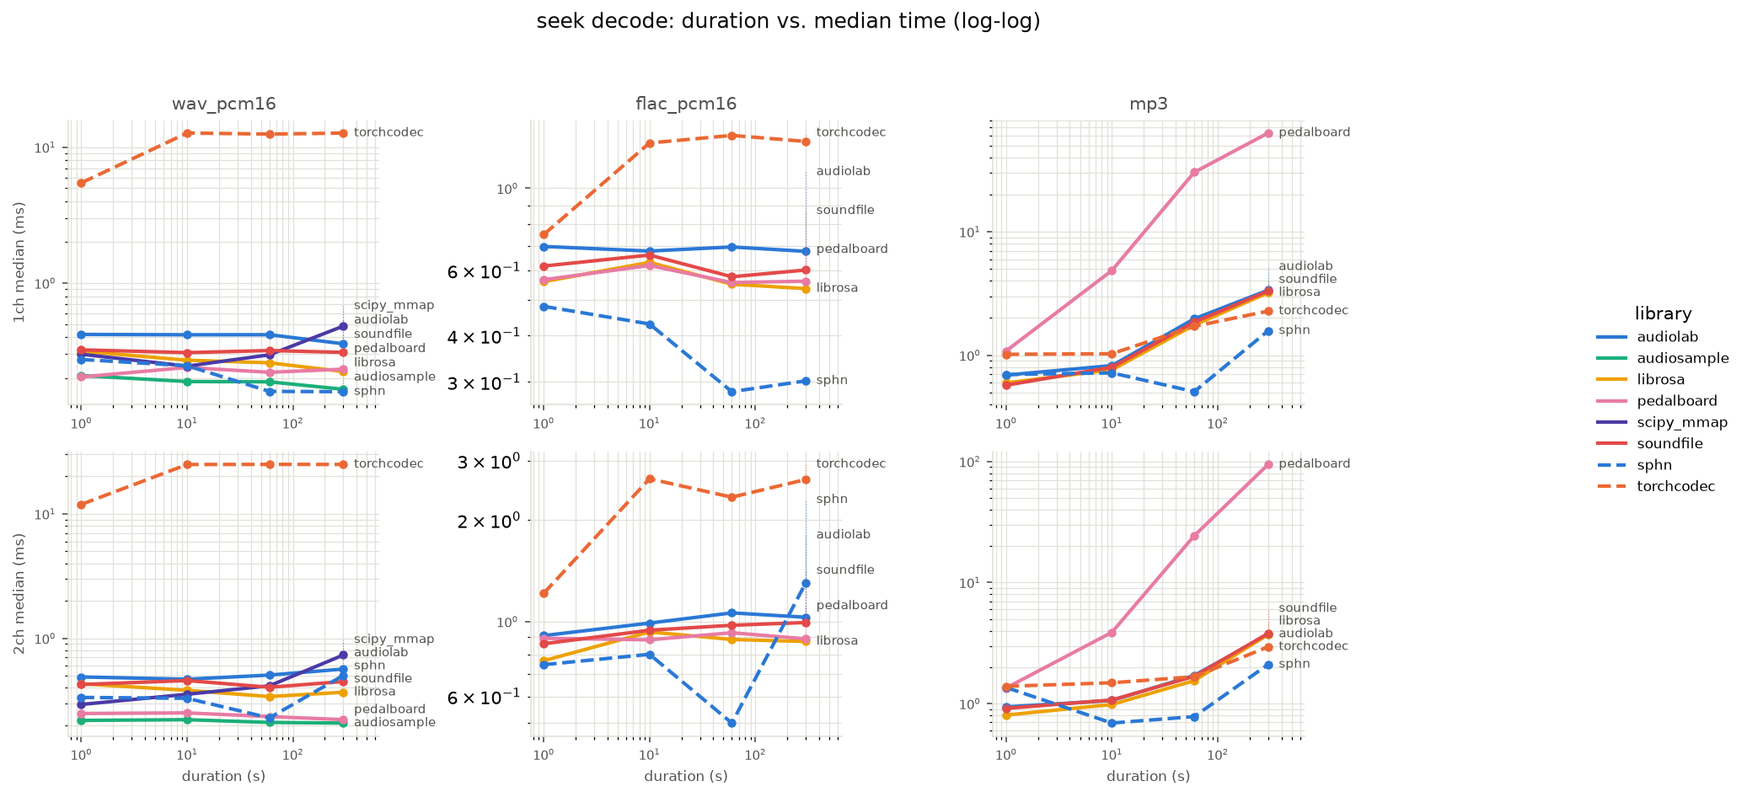
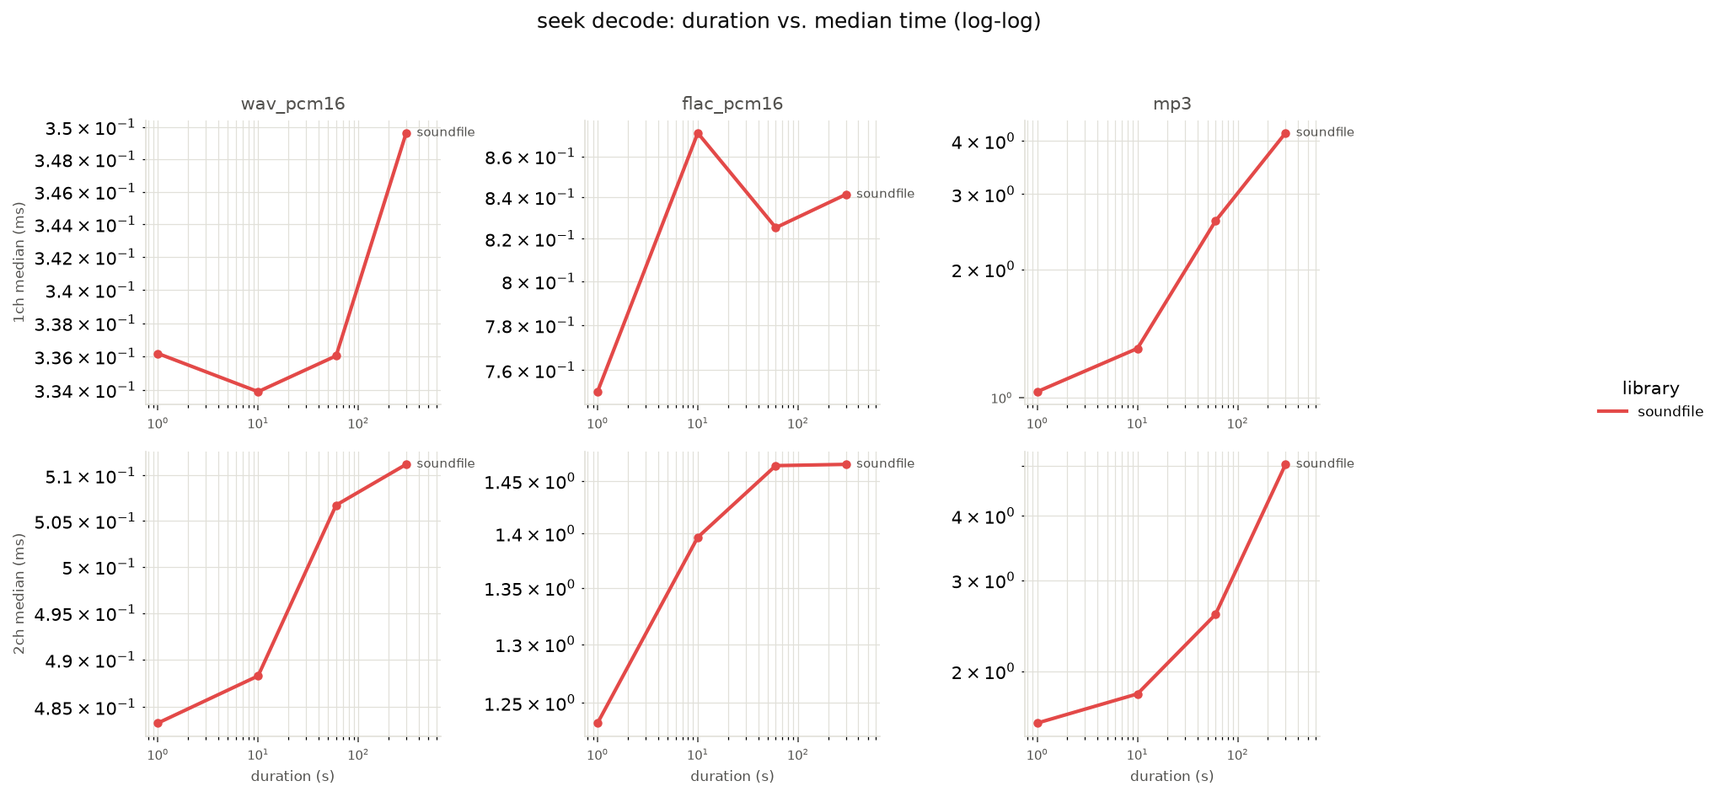
add results

diff --git a/results/report.md b/results/report.md
@@ -6,27 +6,27 @@ Timings below are wall-clock, warm-page-cache decodes of a locally generated **s
 
 | Field | Value |
 | --- | --- |
-| OS | macOS-26.5.1-arm64-arm-64bit |
-| Machine | arm64 |
-| Python | 3.12.11 |
-| PyTorch | 2.14.0 |
-| FFmpeg | ffmpeg version 8.1.1 Copyright (c) 2000-2026 the FFmpeg developers |
-| DYLD_FALLBACK_LIBRARY_PATH | /opt/homebrew/lib |
+| OS | Linux-6.8.0-136-generic-x86_64-with-glibc2.39 |
+| Machine | x86_64 |
+| Python | 3.12.3 |
+| PyTorch | 2.14.0+cu130 |
+| FFmpeg | ffmpeg version n8.0.1-48-g0592be14ff-20260116 Copyright (c) 2000-2025 the FFmpeg developers |
+| DYLD_FALLBACK_LIBRARY_PATH | - |
 
 ## Libraries
 
 | Library | Version | Available | Seek | Notes | Error |
 | --- | --- | --- | --- | --- | --- |
 | soundfile | 0.14.0 | yes | yes | the correctness reference every other loader is checked against | - |
-| librosa | 1.0.0 | yes | yes | - | - |
-| scipy | 1.18.1 | yes | no | WAV only; scipy.io.wavfile has no seek API | - |
-| scipy_mmap | 1.18.1 | yes | yes | WAV only, memory-mapped; scipy's mmap mode cannot open 24-bit ('3-byte container') WAV, which surfaces as a decode error for that subtype | - |
-| audioread | 3.1.0 | yes | no | full-file only, no seek API; audioread always yields 16-bit PCM buffers, so it cannot pass the exact gate for 24-bit or float32 WAV sources | - |
-| pedalboard | 0.9.25 | yes | yes | - | - |
-| torchcodec | 0.16.0 | yes | yes | imports cleanly even when its native FFmpeg bindings can't load; only the decode smoke test below catches that (see docs/refactor-design.md) | - |
-| audiolab | 0.5.2 | yes | yes | - | - |
-| audiosample | 2.2.12 | yes | yes | integer-PCM WAV only: float WAV, FLAC and MP3 go through its PyAV path, which is incompatible with PyAV 18 (Flags.FAST_SEEK) | - |
-| sphn | 0.2.1 | yes | yes | MP3 decode returns a different frame count than soundfile's reference (decoder-delay disagreement); graded by the relaxed MP3 gate | - |
+| librosa | - | no | n/a | - | ModuleNotFoundError: No module named 'librosa' |
+| scipy | - | no | n/a | WAV only; scipy.io.wavfile has no seek API | ModuleNotFoundError: No module named 'scipy' |
+| scipy_mmap | - | no | n/a | WAV only, memory-mapped; scipy's mmap mode cannot open 24-bit ('3-byte container') WAV, which surfaces as a decode error for that subtype | ModuleNotFoundError: No module named 'scipy' |
+| audioread | - | no | n/a | full-file only, no seek API; audioread always yields 16-bit PCM buffers, so it cannot pass the exact gate for 24-bit or float32 WAV sources | ModuleNotFoundError: No module named 'audioread' |
+| pedalboard | - | no | n/a | - | ModuleNotFoundError: No module named 'pedalboard' |
+| torchcodec | - | no | n/a | imports cleanly even when its native FFmpeg bindings can't load; only the decode smoke test below catches that (see docs/refactor-design.md) | ModuleNotFoundError: No module named 'torchcodec' |
+| audiolab | - | no | n/a | - | ModuleNotFoundError: No module named 'audiolab' |
+| audiosample | - | no | n/a | integer-PCM WAV only: float WAV, FLAC and MP3 go through its PyAV path, which is incompatible with PyAV 18 (Flags.FAST_SEEK) | ModuleNotFoundError: No module named 'audiosample' |
+| sphn | - | no | n/a | MP3 decode returns a different frame count than soundfile's reference (decoder-delay disagreement); graded by the relaxed MP3 gate | ModuleNotFoundError: No module named 'sphn' |
 
 **MP3 is graded by a relaxed gate** (decoded duration within 50 ms of the reference, RMS level within 0.5 dB on the common length) rather than the sample-exact gate WAV and FLAC are held to (1.5 LSB for integer PCM, `atol=1e-7` for float32), because MP3 decoders disagree on encoder delay and never match sample-for-sample. MP3 results therefore carry a weaker correctness guarantee than the WAV/FLAC results in this report.
 
@@ -34,84 +34,94 @@ Timings below are wall-clock, warm-page-cache decodes of a locally generated **s
 
 | Duration (s) | Channels | soundfile | librosa | scipy | scipy_mmap | audioread | pedalboard | torchcodec | audiolab | audiosample | sphn |
 | --- | --- | --- | --- | --- | --- | --- | --- | --- | --- | --- | --- |
-| 1 | 1 | 0.25 ms [0.21–0.28] | 0.32 ms [0.21–5.76] | 0.19 ms [0.14–0.42] | 0.33 ms [0.25–6.19] | 0.34 ms [0.25–7.13] | 0.22 ms [0.17–0.52] | 5.63 ms [5.51–5.91] | 0.46 ms [0.37–0.63] | 0.14 ms [0.12–3.45] | 0.37 ms [0.19–0.82] |
-| 1 | 2 | 0.35 ms [0.31–0.42] | 0.39 ms [0.33–0.44] | 0.25 ms [0.20–0.28] | 0.31 ms [0.26–4.72] | 0.40 ms [0.36–0.47] | 0.25 ms [0.22–0.31] | 12.24 ms [10.58–62.33] | 0.51 ms [0.44–0.57] | 0.24 ms [0.19–0.27] | 0.35 ms [0.31–0.41] |
-| 10 | 1 | 0.89 ms [0.84–1.02] | 0.93 ms [0.88–0.98] | 0.45 ms [0.41–0.77] | 0.44 ms [0.40–5.16] | 1.47 ms [1.40–1.56] | 0.52 ms [0.47–0.57] | 13.28 ms [13.14–13.74] | 1.35 ms [1.21–1.43] | 0.40 ms [0.36–0.54] | 1.71 ms [1.24–2.83] |
-| 10 | 2 | 1.89 ms [1.79–2.22] | 1.90 ms [1.82–2.22] | 1.02 ms [0.93–3.86] | 1.04 ms [0.99–6.19] | 2.73 ms [2.69–3.07] | 0.86 ms [0.79–0.94] | 26.04 ms [25.72–28.64] | 2.33 ms [2.24–2.81] | 0.94 ms [0.87–1.28] | 2.43 ms [2.23–2.49] |
-| 60 | 1 | 4.43 ms [4.36–4.66] | 4.47 ms [4.31–4.76] | 2.04 ms [1.99–6.92] | 1.65 ms [1.55–5.89] | 9.11 ms [8.03–11.15] | 2.19 ms [2.03–2.30] | 15.84 ms [15.45–19.90] | 6.33 ms [5.85–10.65] | 1.77 ms [1.74–4.16] | 6.96 ms [6.33–9.33] |
-| 60 | 2 | 9.97 ms [9.88–11.43] | 9.92 ms [9.80–12.78] | 5.31 ms [5.08–7.60] | 4.44 ms [4.34–8.97] | 15.87 ms [15.42–18.55] | 4.39 ms [4.12–4.55] | 31.15 ms [29.75–33.86] | 12.30 ms [12.08–17.59] | 5.09 ms [4.84–12.29] | 14.55 ms [12.26–54.59] |
-| 300 | 1 | 21.72 ms [20.75–24.79] | 21.15 ms [20.68–60.01] | 9.18 ms [8.81–10.64] | 7.04 ms [6.81–14.72] | 40.19 ms [39.19–44.21] | 10.27 ms [9.68–23.35] | 28.59 ms [27.98–33.72] | 27.94 ms [27.68–29.95] | 9.04 ms [8.44–40.84] | 34.56 ms [32.59–51.92] |
-| 300 | 2 | 52.07 ms [49.45–60.07] | 49.59 ms [49.06–80.34] | 25.67 ms [24.92–48.44] | 22.97 ms [21.01–29.51] | 76.94 ms [75.94–84.07] | 21.56 ms [20.79–32.14] | 52.37 ms [50.85–55.94] | 60.20 ms [58.03–124.35] | 23.95 ms [23.31–26.63] | 144.38 ms [132.87–162.02] |
+| 1 | 1 | 0.28 ms [0.26–0.45] | unavailable | unavailable | unavailable | unavailable | unavailable | unavailable | unavailable | unavailable | unavailable |
+| 1 | 2 | 0.43 ms [0.42–0.80] | unavailable | unavailable | unavailable | unavailable | unavailable | unavailable | unavailable | unavailable | unavailable |
+| 10 | 1 | 1.23 ms [1.20–1.27] | unavailable | unavailable | unavailable | unavailable | unavailable | unavailable | unavailable | unavailable | unavailable |
+| 10 | 2 | 2.80 ms [2.71–2.88] | unavailable | unavailable | unavailable | unavailable | unavailable | unavailable | unavailable | unavailable | unavailable |
+| 60 | 1 | 6.72 ms [6.55–7.07] | unavailable | unavailable | unavailable | unavailable | unavailable | unavailable | unavailable | unavailable | unavailable |
+| 60 | 2 | 16.80 ms [16.55–17.73] | unavailable | unavailable | unavailable | unavailable | unavailable | unavailable | unavailable | unavailable | unavailable |
+| 300 | 1 | 41.59 ms [41.11–42.14] | unavailable | unavailable | unavailable | unavailable | unavailable | unavailable | unavailable | unavailable | unavailable |
+| 300 | 2 | 124.71 ms [124.32–125.20] | unavailable | unavailable | unavailable | unavailable | unavailable | unavailable | unavailable | unavailable | unavailable |
 
 ## wav_pcm16 / seek
 
 | Duration (s) | Channels | soundfile | librosa | scipy | scipy_mmap | audioread | pedalboard | torchcodec | audiolab | audiosample | sphn |
 | --- | --- | --- | --- | --- | --- | --- | --- | --- | --- | --- | --- |
-| 1 | 1 | 0.32 ms [0.27–0.41] | 0.32 ms [0.25–1.80] | unsupported | 0.30 ms [0.23–9.04] | unsupported | 0.20 ms [0.16–0.26] | 5.46 ms [5.41–5.56] | 0.42 ms [0.33–2.90] | 0.21 ms [0.14–0.49] | 0.27 ms [0.24–0.40] |
-| 1 | 2 | 0.42 ms [0.34–0.48] | 0.43 ms [0.31–2.54] | unsupported | 0.29 ms [0.25–4.43] | unsupported | 0.25 ms [0.21–0.31] | 11.91 ms [11.26–16.18] | 0.49 ms [0.42–0.58] | 0.22 ms [0.18–0.28] | 0.33 ms [0.33–0.44] |
-| 10 | 1 | 0.31 ms [0.24–0.39] | 0.27 ms [0.22–0.30] | unsupported | 0.24 ms [0.23–5.32] | unsupported | 0.24 ms [0.18–0.25] | 12.73 ms [12.66–12.91] | 0.42 ms [0.35–3.00] | 0.19 ms [0.14–0.23] | 0.25 ms [0.23–0.32] |
-| 10 | 2 | 0.46 ms [0.42–0.91] | 0.38 ms [0.33–0.44] | unsupported | 0.35 ms [0.26–0.57] | unsupported | 0.25 ms [0.20–0.30] | 24.93 ms [24.66–28.50] | 0.47 ms [0.39–0.55] | 0.22 ms [0.19–0.27] | 0.33 ms [0.31–0.36] |
-| 60 | 1 | 0.32 ms [0.28–0.37] | 0.26 ms [0.22–0.34] | unsupported | 0.30 ms [0.23–4.62] | unsupported | 0.22 ms [0.19–0.30] | 12.50 ms [12.42–12.84] | 0.42 ms [0.34–0.71] | 0.19 ms [0.14–0.48] | 0.16 ms [0.13–0.19] |
-| 60 | 2 | 0.40 ms [0.34–0.46] | 0.34 ms [0.31–0.71] | unsupported | 0.41 ms [0.39–4.99] | unsupported | 0.23 ms [0.21–0.29] | 24.99 ms [24.71–26.78] | 0.51 ms [0.44–0.60] | 0.21 ms [0.19–0.26] | 0.23 ms [0.19–0.86] |
-| 300 | 1 | 0.31 ms [0.27–0.67] | 0.22 ms [0.21–0.28] | unsupported | 0.48 ms [0.40–2.68] | unsupported | 0.23 ms [0.20–0.34] | 12.72 ms [12.59–13.24] | 0.36 ms [0.31–0.74] | 0.17 ms [0.14–0.21] | 0.16 ms [0.13–0.30] |
-| 300 | 2 | 0.45 ms [0.42–0.55] | 0.37 ms [0.33–0.42] | unsupported | 0.73 ms [0.63–4.32] | unsupported | 0.22 ms [0.20–0.28] | 24.96 ms [24.55–29.08] | 0.57 ms [0.50–1.69] | 0.21 ms [0.19–0.25] | 0.50 ms [0.42–0.55] |
+| 1 | 1 | 0.34 ms [0.32–0.35] | unavailable | unavailable | unavailable | unavailable | unavailable | unavailable | unavailable | unavailable | unavailable |
+| 1 | 2 | 0.48 ms [0.48–0.49] | unavailable | unavailable | unavailable | unavailable | unavailable | unavailable | unavailable | unavailable | unavailable |
+| 10 | 1 | 0.33 ms [0.33–0.35] | unavailable | unavailable | unavailable | unavailable | unavailable | unavailable | unavailable | unavailable | unavailable |
+| 10 | 2 | 0.49 ms [0.48–0.50] | unavailable | unavailable | unavailable | unavailable | unavailable | unavailable | unavailable | unavailable | unavailable |
+| 60 | 1 | 0.34 ms [0.33–0.35] | unavailable | unavailable | unavailable | unavailable | unavailable | unavailable | unavailable | unavailable | unavailable |
+| 60 | 2 | 0.51 ms [0.50–0.53] | unavailable | unavailable | unavailable | unavailable | unavailable | unavailable | unavailable | unavailable | unavailable |
+| 300 | 1 | 0.35 ms [0.33–0.39] | unavailable | unavailable | unavailable | unavailable | unavailable | unavailable | unavailable | unavailable | unavailable |
+| 300 | 2 | 0.51 ms [0.49–0.55] | unavailable | unavailable | unavailable | unavailable | unavailable | unavailable | unavailable | unavailable | unavailable |
 
 ## flac_pcm16 / full
 
 | Duration (s) | Channels | soundfile | librosa | scipy | scipy_mmap | audioread | pedalboard | torchcodec | audiolab | audiosample | sphn |
 | --- | --- | --- | --- | --- | --- | --- | --- | --- | --- | --- | --- |
-| 1 | 1 | 0.49 ms [0.47–0.59] | 0.57 ms [0.52–0.88] | unsupported | unsupported | 1.62 ms [1.57–11.13] | 0.57 ms [0.50–3.29] | 0.81 ms [0.77–0.93] | 0.68 ms [0.64–0.76] | unsupported | 0.44 ms [0.39–0.55] |
-| 1 | 2 | 0.79 ms [0.76–0.94] | 0.80 ms [0.77–1.02] | unsupported | unsupported | 2.09 ms [2.01–2.22] | 0.87 ms [0.78–1.20] | 1.40 ms [1.27–1.71] | 0.92 ms [0.87–6.04] | unsupported | 0.75 ms [0.67–0.87] |
-| 10 | 1 | 3.39 ms [3.35–3.48] | 3.36 ms [3.31–3.42] | unsupported | unsupported | 5.58 ms [5.48–6.32] | 2.81 ms [2.71–2.91] | 3.89 ms [3.80–4.04] | 3.80 ms [3.75–3.91] | unsupported | 3.41 ms [2.98–4.03] |
-| 10 | 2 | 5.93 ms [5.83–6.37] | 5.92 ms [5.82–6.35] | unsupported | unsupported | 10.38 ms [10.21–11.97] | 5.56 ms [5.48–5.85] | 6.96 ms [6.82–7.63] | 6.48 ms [6.27–9.38] | unsupported | 5.46 ms [5.39–6.04] |
-| 60 | 1 | 19.28 ms [19.20–19.74] | 19.24 ms [19.17–19.63] | unsupported | unsupported | 27.78 ms [27.24–30.16] | 15.08 ms [14.90–15.54] | 20.72 ms [20.58–22.51] | 21.00 ms [20.89–21.53] | unsupported | 11.45 ms [9.94–18.88] |
-| 60 | 2 | 34.22 ms [33.91–36.96] | 33.93 ms [33.70–57.90] | unsupported | unsupported | 56.94 ms [55.78–60.13] | 31.80 ms [31.68–60.10] | 39.57 ms [38.65–46.05] | 37.34 ms [36.50–45.90] | unsupported | 23.76 ms [21.36–35.99] |
-| 300 | 1 | 96.45 ms [95.28–173.07] | 95.54 ms [95.35–173.85] | unsupported | unsupported | 132.58 ms [130.75–138.88] | 74.34 ms [73.88–80.10] | 102.54 ms [100.46–111.60] | 105.38 ms [103.47–159.16] | unsupported | 61.62 ms [60.16–69.05] |
-| 300 | 2 | 173.89 ms [168.36–251.41] | 172.43 ms [168.80–213.40] | unsupported | unsupported | 279.09 ms [273.45–328.69] | 158.40 ms [156.45–234.69] | 196.09 ms [192.39–211.79] | 183.75 ms [179.62–189.35] | unsupported | 323.73 ms [229.49–406.67] |
+| 1 | 1 | 0.69 ms [0.69–0.70] | unavailable | unavailable | unavailable | unavailable | unavailable | unavailable | unavailable | unavailable | unavailable |
+| 1 | 2 | 1.16 ms [1.15–1.16] | unavailable | unavailable | unavailable | unavailable | unavailable | unavailable | unavailable | unavailable | unavailable |
+| 10 | 1 | 5.19 ms [5.18–5.27] | unavailable | unavailable | unavailable | unavailable | unavailable | unavailable | unavailable | unavailable | unavailable |
+| 10 | 2 | 10.00 ms [9.98–10.03] | unavailable | unavailable | unavailable | unavailable | unavailable | unavailable | unavailable | unavailable | unavailable |
+| 60 | 1 | 30.28 ms [30.02–31.68] | unavailable | unavailable | unavailable | unavailable | unavailable | unavailable | unavailable | unavailable | unavailable |
+| 60 | 2 | 60.34 ms [60.14–62.53] | unavailable | unavailable | unavailable | unavailable | unavailable | unavailable | unavailable | unavailable | unavailable |
+| 300 | 1 | 159.63 ms [159.39–161.20] | unavailable | unavailable | unavailable | unavailable | unavailable | unavailable | unavailable | unavailable | unavailable |
+| 300 | 2 | 341.20 ms [340.89–341.45] | unavailable | unavailable | unavailable | unavailable | unavailable | unavailable | unavailable | unavailable | unavailable |
 
 ## flac_pcm16 / seek
 
 | Duration (s) | Channels | soundfile | librosa | scipy | scipy_mmap | audioread | pedalboard | torchcodec | audiolab | audiosample | sphn |
 | --- | --- | --- | --- | --- | --- | --- | --- | --- | --- | --- | --- |
-| 1 | 1 | 0.62 ms [0.55–0.91] | 0.56 ms [0.47–0.87] | unsupported | unsupported | unsupported | 0.57 ms [0.52–4.58] | 0.75 ms [0.67–0.85] | 0.70 ms [0.61–10.68] | unsupported | 0.48 ms [0.43–0.69] |
-| 1 | 2 | 0.86 ms [0.78–1.52] | 0.77 ms [0.74–0.82] | unsupported | unsupported | unsupported | 0.89 ms [0.80–0.94] | 1.21 ms [1.13–1.82] | 0.91 ms [0.87–0.97] | unsupported | 0.75 ms [0.67–1.07] |
-| 10 | 1 | 0.66 ms [0.57–0.81] | 0.63 ms [0.59–0.69] | unsupported | unsupported | unsupported | 0.62 ms [0.57–0.82] | 1.33 ms [1.25–1.42] | 0.68 ms [0.66–0.74] | unsupported | 0.43 ms [0.39–0.80] |
-| 10 | 2 | 0.94 ms [0.85–1.05] | 0.93 ms [0.87–1.03] | unsupported | unsupported | unsupported | 0.88 ms [0.82–0.91] | 2.65 ms [2.56–2.83] | 0.99 ms [0.96–1.08] | unsupported | 0.80 ms [0.72–0.96] |
-| 60 | 1 | 0.58 ms [0.55–1.41] | 0.55 ms [0.52–0.60] | unsupported | unsupported | unsupported | 0.56 ms [0.54–0.62] | 1.39 ms [1.24–1.58] | 0.69 ms [0.63–1.06] | unsupported | 0.28 ms [0.27–0.32] |
-| 60 | 2 | 0.97 ms [0.93–1.06] | 0.88 ms [0.85–1.23] | unsupported | unsupported | unsupported | 0.93 ms [0.86–2.53] | 2.34 ms [2.21–4.57] | 1.06 ms [0.98–1.15] | unsupported | 0.50 ms [0.49–0.71] |
-| 300 | 1 | 0.60 ms [0.56–1.11] | 0.54 ms [0.49–0.61] | unsupported | unsupported | unsupported | 0.56 ms [0.50–0.70] | 1.34 ms [1.28–1.51] | 0.68 ms [0.61–0.89] | unsupported | 0.30 ms [0.28–0.56] |
-| 300 | 2 | 0.99 ms [0.95–1.11] | 0.87 ms [0.85–0.93] | unsupported | unsupported | unsupported | 0.89 ms [0.84–3.53] | 2.64 ms [2.57–3.00] | 1.03 ms [0.98–1.53] | unsupported | 1.30 ms [0.96–1.54] |
+| 1 | 1 | 0.75 ms [0.74–0.76] | unavailable | unavailable | unavailable | unavailable | unavailable | unavailable | unavailable | unavailable | unavailable |
+| 1 | 2 | 1.23 ms [1.23–1.84] | unavailable | unavailable | unavailable | unavailable | unavailable | unavailable | unavailable | unavailable | unavailable |
+| 10 | 1 | 0.87 ms [0.86–0.88] | unavailable | unavailable | unavailable | unavailable | unavailable | unavailable | unavailable | unavailable | unavailable |
+| 10 | 2 | 1.40 ms [1.39–1.40] | unavailable | unavailable | unavailable | unavailable | unavailable | unavailable | unavailable | unavailable | unavailable |
+| 60 | 1 | 0.83 ms [0.82–0.83] | unavailable | unavailable | unavailable | unavailable | unavailable | unavailable | unavailable | unavailable | unavailable |
+| 60 | 2 | 1.46 ms [1.46–1.48] | unavailable | unavailable | unavailable | unavailable | unavailable | unavailable | unavailable | unavailable | unavailable |
+| 300 | 1 | 0.84 ms [0.83–0.89] | unavailable | unavailable | unavailable | unavailable | unavailable | unavailable | unavailable | unavailable | unavailable |
+| 300 | 2 | 1.47 ms [1.45–1.55] | unavailable | unavailable | unavailable | unavailable | unavailable | unavailable | unavailable | unavailable | unavailable |
 
 ## mp3 / full
 
 | Duration (s) | Channels | soundfile | librosa | scipy | scipy_mmap | audioread | pedalboard | torchcodec | audiolab | audiosample | sphn |
 | --- | --- | --- | --- | --- | --- | --- | --- | --- | --- | --- | --- |
-| 1 | 1 | 0.50 ms [0.48–0.61] | 0.54 ms [0.49–0.61] | unsupported | unsupported | 1.47 ms [1.30–1.85] | 1.08 ms [0.99–1.13] | 1.10 ms [1.01–1.16] | 0.65 ms [0.60–0.81] | unsupported | 0.94 ms [0.71–1.33] |
-| 1 | 2 | 0.80 ms [0.77–1.85] | 0.82 ms [0.77–0.92] | unsupported | unsupported | 2.04 ms [1.97–2.14] | 1.35 ms [1.30–1.41] | 1.54 ms [1.40–2.36] | 1.00 ms [0.92–1.50] | unsupported | 1.25 ms [1.22–1.68] |
-| 10 | 1 | 3.33 ms [3.24–5.60] | 3.29 ms [3.21–4.09] | unsupported | unsupported | 8.27 ms [8.13–10.57] | 7.21 ms [7.10–8.06] | 5.08 ms [5.01–5.19] | 3.93 ms [3.84–4.38] | unsupported | 5.67 ms [4.75–7.88] |
-| 10 | 2 | 6.73 ms [6.09–80.64] | 6.01 ms [5.91–6.71] | unsupported | unsupported | 13.74 ms [13.45–17.92] | 9.98 ms [9.94–10.17] | 7.81 ms [7.68–10.18] | 6.77 ms [6.62–7.59] | unsupported | 5.89 ms [5.85–14.59] |
-| 60 | 1 | 18.35 ms [18.24–21.20] | 18.30 ms [18.21–18.73] | unsupported | unsupported | 46.71 ms [46.20–57.23] | 41.29 ms [41.14–45.07] | 28.73 ms [27.63–63.74] | 21.75 ms [21.24–23.99] | unsupported | 22.27 ms [20.34–26.86] |
-| 60 | 2 | 34.38 ms [33.87–35.21] | 33.92 ms [33.87–35.62] | unsupported | unsupported | 78.10 ms [76.90–85.78] | 58.34 ms [58.08–61.55] | 43.96 ms [43.25–48.91] | 39.45 ms [38.08–41.77] | unsupported | 38.73 ms [37.66–58.05] |
-| 300 | 1 | 91.22 ms [90.60–98.24] | 91.39 ms [90.47–100.08] | unsupported | unsupported | 229.67 ms [226.52–259.55] | 206.26 ms [204.01–291.00] | 138.99 ms [135.15–149.50] | 105.92 ms [104.92–265.71] | unsupported | 103.61 ms [101.26–128.33] |
-| 300 | 2 | 176.60 ms [169.37–194.68] | 171.90 ms [169.10–184.41] | unsupported | unsupported | 387.96 ms [383.58–412.56] | 294.20 ms [288.69–367.46] | 221.85 ms [215.43–245.76] | 190.97 ms [187.48–206.25] | unsupported | 397.54 ms [345.70–456.88] |
+| 1 | 1 | 0.96 ms [0.96–1.12] | unavailable | unavailable | unavailable | unavailable | unavailable | unavailable | unavailable | unavailable | unavailable |
+| 1 | 2 | 1.52 ms [1.51–1.54] | unavailable | unavailable | unavailable | unavailable | unavailable | unavailable | unavailable | unavailable | unavailable |
+| 10 | 1 | 7.70 ms [7.66–7.76] | unavailable | unavailable | unavailable | unavailable | unavailable | unavailable | unavailable | unavailable | unavailable |
+| 10 | 2 | 13.00 ms [12.89–13.13] | unavailable | unavailable | unavailable | unavailable | unavailable | unavailable | unavailable | unavailable | unavailable |
+| 60 | 1 | 45.12 ms [44.98–45.33] | unavailable | unavailable | unavailable | unavailable | unavailable | unavailable | unavailable | unavailable | unavailable |
+| 60 | 2 | 77.07 ms [76.84–78.25] | unavailable | unavailable | unavailable | unavailable | unavailable | unavailable | unavailable | unavailable | unavailable |
+| 300 | 1 | 231.18 ms [230.91–232.41] | unavailable | unavailable | unavailable | unavailable | unavailable | unavailable | unavailable | unavailable | unavailable |
+| 300 | 2 | 423.50 ms [422.42–424.66] | unavailable | unavailable | unavailable | unavailable | unavailable | unavailable | unavailable | unavailable | unavailable |
 
 ## mp3 / seek
 
 | Duration (s) | Channels | soundfile | librosa | scipy | scipy_mmap | audioread | pedalboard | torchcodec | audiolab | audiosample | sphn |
 | --- | --- | --- | --- | --- | --- | --- | --- | --- | --- | --- | --- |
-| 1 | 1 | 0.57 ms [0.56–0.67] | 0.60 ms [0.53–0.69] | unsupported | unsupported | unsupported | 1.08 ms [0.97–1.98] | 1.02 ms [0.93–1.21] | 0.69 ms [0.63–1.06] | unsupported | 0.70 ms [0.69–0.98] |
-| 1 | 2 | 0.91 ms [0.83–12.50] | 0.80 ms [0.79–0.93] | unsupported | unsupported | unsupported | 1.34 ms [1.27–1.42] | 1.39 ms [1.26–1.98] | 0.94 ms [0.91–1.03] | unsupported | 1.36 ms [1.20–1.67] |
-| 10 | 1 | 0.80 ms [0.71–0.91] | 0.76 ms [0.67–0.85] | unsupported | unsupported | unsupported | 4.85 ms [4.72–4.99] | 1.03 ms [1.01–1.55] | 0.82 ms [0.78–0.94] | unsupported | 0.72 ms [0.65–0.99] |
-| 10 | 2 | 1.07 ms [0.97–10.40] | 0.98 ms [0.87–1.39] | unsupported | unsupported | unsupported | 3.88 ms [3.81–4.03] | 1.48 ms [1.30–2.01] | 1.06 ms [1.02–1.12] | unsupported | 0.69 ms [0.68–0.73] |
-| 60 | 1 | 1.85 ms [1.80–2.56] | 1.75 ms [1.72–1.79] | unsupported | unsupported | unsupported | 30.31 ms [29.99–37.81] | 1.71 ms [1.56–2.25] | 1.97 ms [1.90–2.12] | unsupported | 0.51 ms [0.48–0.53] |
-| 60 | 2 | 1.68 ms [1.53–2.03] | 1.55 ms [1.49–1.63] | unsupported | unsupported | unsupported | 24.32 ms [24.22–26.09] | 1.67 ms [1.61–1.99] | 1.71 ms [1.65–4.64] | unsupported | 0.78 ms [0.75–0.86] |
-| 300 | 1 | 3.31 ms [3.24–6.90] | 3.20 ms [3.13–5.76] | unsupported | unsupported | unsupported | 63.05 ms [62.82–198.47] | 2.27 ms [2.20–2.53] | 3.36 ms [3.21–8.97] | unsupported | 1.58 ms [0.87–1.81] |
-| 300 | 2 | 3.80 ms [3.64–9.99] | 3.73 ms [3.64–9.08] | unsupported | unsupported | unsupported | 94.51 ms [93.55–103.53] | 2.94 ms [2.80–3.59] | 3.70 ms [3.66–4.24] | unsupported | 2.10 ms [1.66–17.03] |
+| 1 | 1 | 1.03 ms [1.03–1.04] | unavailable | unavailable | unavailable | unavailable | unavailable | unavailable | unavailable | unavailable | unavailable |
+| 1 | 2 | 1.59 ms [1.57–1.62] | unavailable | unavailable | unavailable | unavailable | unavailable | unavailable | unavailable | unavailable | unavailable |
+| 10 | 1 | 1.30 ms [1.30–1.32] | unavailable | unavailable | unavailable | unavailable | unavailable | unavailable | unavailable | unavailable | unavailable |
+| 10 | 2 | 1.81 ms [1.79–1.85] | unavailable | unavailable | unavailable | unavailable | unavailable | unavailable | unavailable | unavailable | unavailable |
+| 60 | 1 | 2.59 ms [2.56–2.62] | unavailable | unavailable | unavailable | unavailable | unavailable | unavailable | unavailable | unavailable | unavailable |
+| 60 | 2 | 2.57 ms [2.56–2.65] | unavailable | unavailable | unavailable | unavailable | unavailable | unavailable | unavailable | unavailable | unavailable |
+| 300 | 1 | 4.17 ms [4.16–4.19] | unavailable | unavailable | unavailable | unavailable | unavailable | unavailable | unavailable | unavailable | unavailable |
+| 300 | 2 | 5.03 ms [5.01–5.08] | unavailable | unavailable | unavailable | unavailable | unavailable | unavailable | unavailable | unavailable | unavailable |
 
 ## Unavailable and incorrect libraries
 
-Every probed library was available and passed the correctness gate.
+Unavailable libraries:
+
+- **audiolab**: ModuleNotFoundError: No module named 'audiolab'
+- **audioread**: ModuleNotFoundError: No module named 'audioread'
+- **audiosample**: ModuleNotFoundError: No module named 'audiosample'
+- **librosa**: ModuleNotFoundError: No module named 'librosa'
+- **pedalboard**: ModuleNotFoundError: No module named 'pedalboard'
+- **scipy**: ModuleNotFoundError: No module named 'scipy'
+- **scipy_mmap**: ModuleNotFoundError: No module named 'scipy'
+- **sphn**: ModuleNotFoundError: No module named 'sphn'
+- **torchcodec**: ModuleNotFoundError: No module named 'torchcodec'
 
 ## Measurement noise
 
-Across 352 `ok` measurements, the observed spread `(max - min) / median` ranges from 0.4% to 1395.2%, with a median of 6.3%. That is the measurement-noise floor of this run: differences between libraries, formats, or durations smaller than this floor are noise, not rankings.
+Across 48 `ok` measurements, the observed spread `(max - min) / median` ranges from 0.1% to 10.7%, with a median of 0.7%. That is the measurement-noise floor of this run: differences between libraries, formats, or durations smaller than this floor are noise, not rankings.
